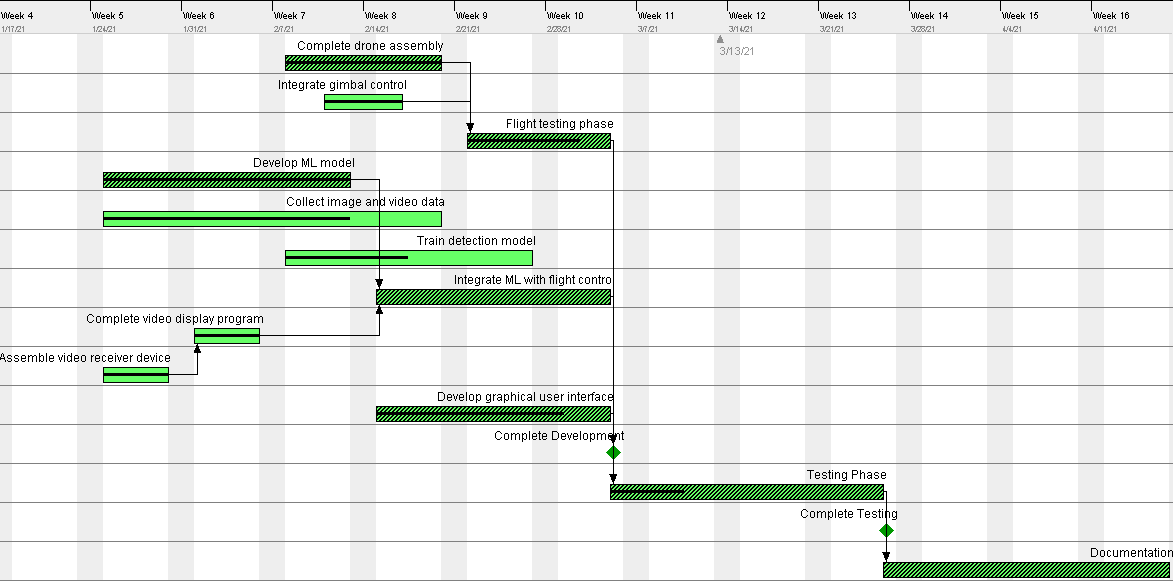
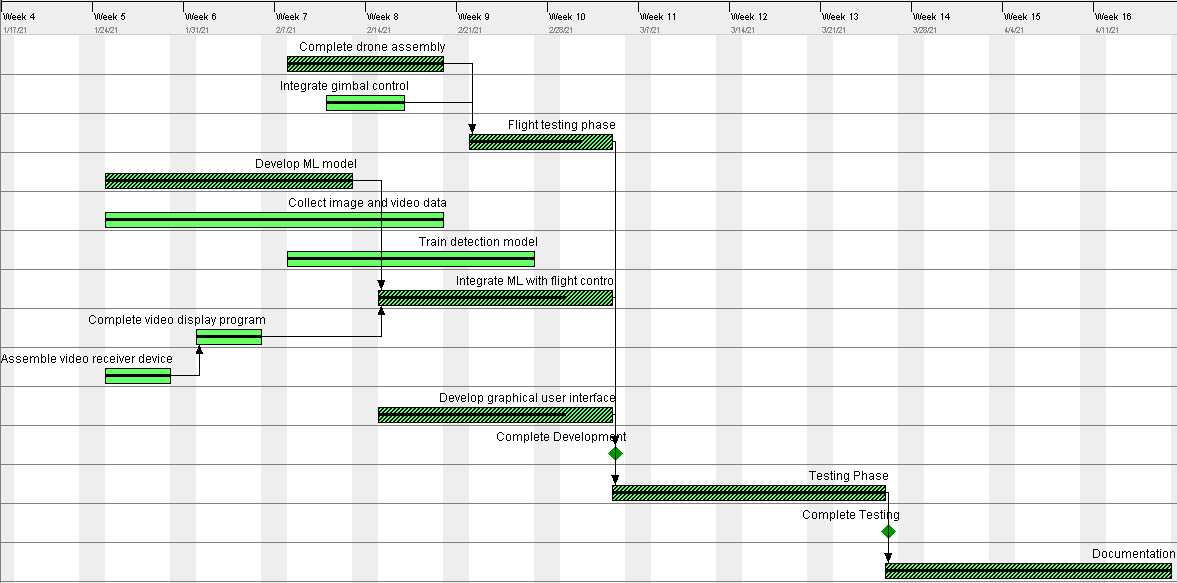
Updated progress report.

diff --git a/website/progress.html b/website/progress.html
@@ -56,6 +56,19 @@
             our time streamlining the integration with the graphical user interface, which may be slightly more rough as
             a result.
         </p>
+        <h5>Progess Update (4/23/21)</h5>
+        <p style="text-indent: 40px">
+            As of 4/23/21, our team has completed our capstone project. We caught up in terms of our testing and
+            finalizing, and the basic functionalities are all operating nominally. We would have liked to add several
+            implementations to the GUI and more sophisticated stimulus-response, hence the slightly unfinished Gantt
+            steps. By this point, however, we have completed our testing phase and full documentation of our project. In
+            order to finalize our project, we ran several unit and integration tests, which allowed us to ensure that
+            the components of our project, such as the neural networks, action generation, video stream, and main
+            wrapper code, were working together. Additionally, since our last update, we have created our Undergraduate
+            Symposium presentation, completed our testing workbook and testing results document, written and submitted
+            our final capstone report and user manual, and submitted our final capstone presentation. The only thing we
+            have left to do is hand all of the hardware over to our client, Dr. Razi.
+        </p>
         <h3>Testing</h3>
         <img src="assets/images/testing.png" style="width:100%" alt="testing">
         <p style="padding-top: 20px; text-indent: 40px">
